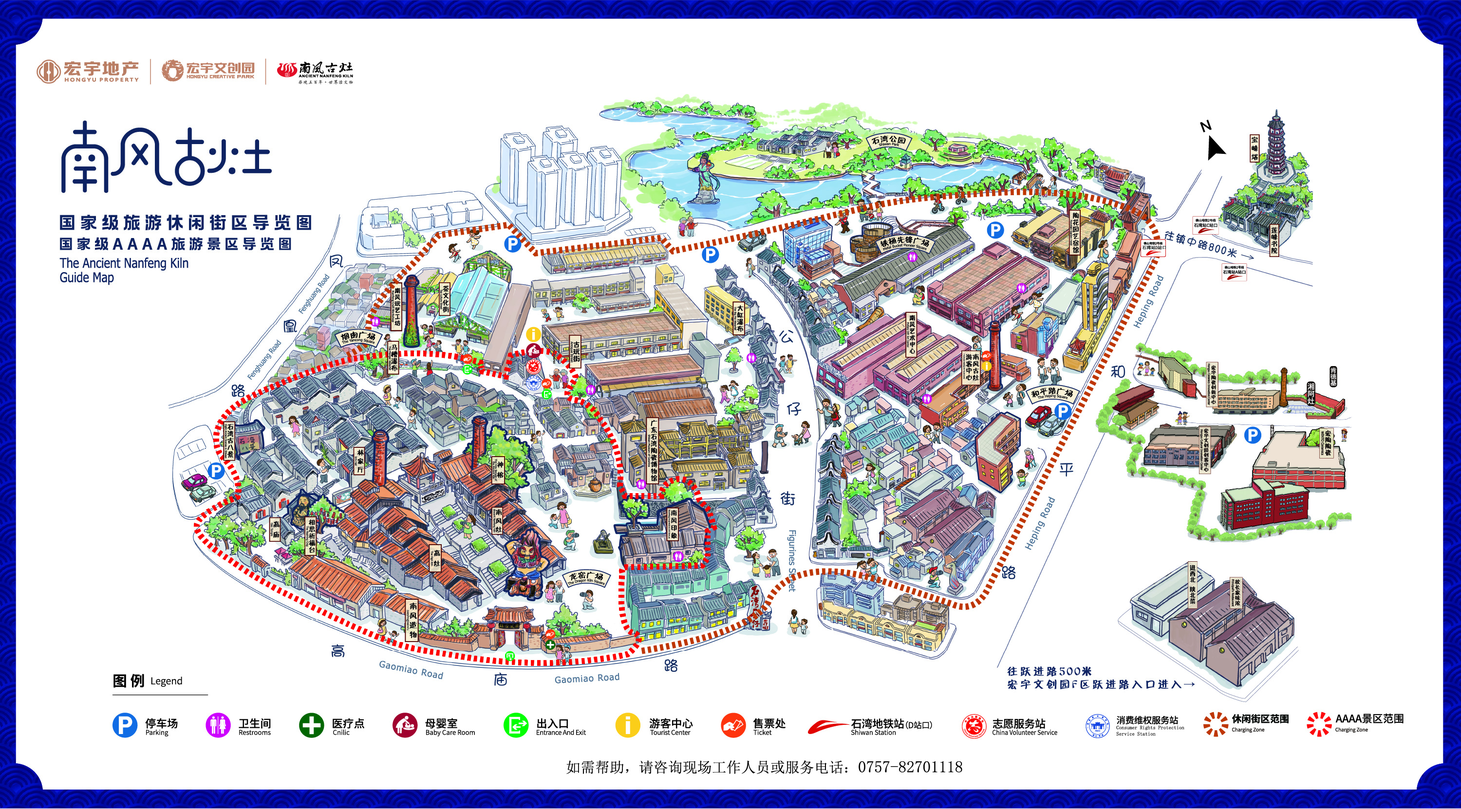
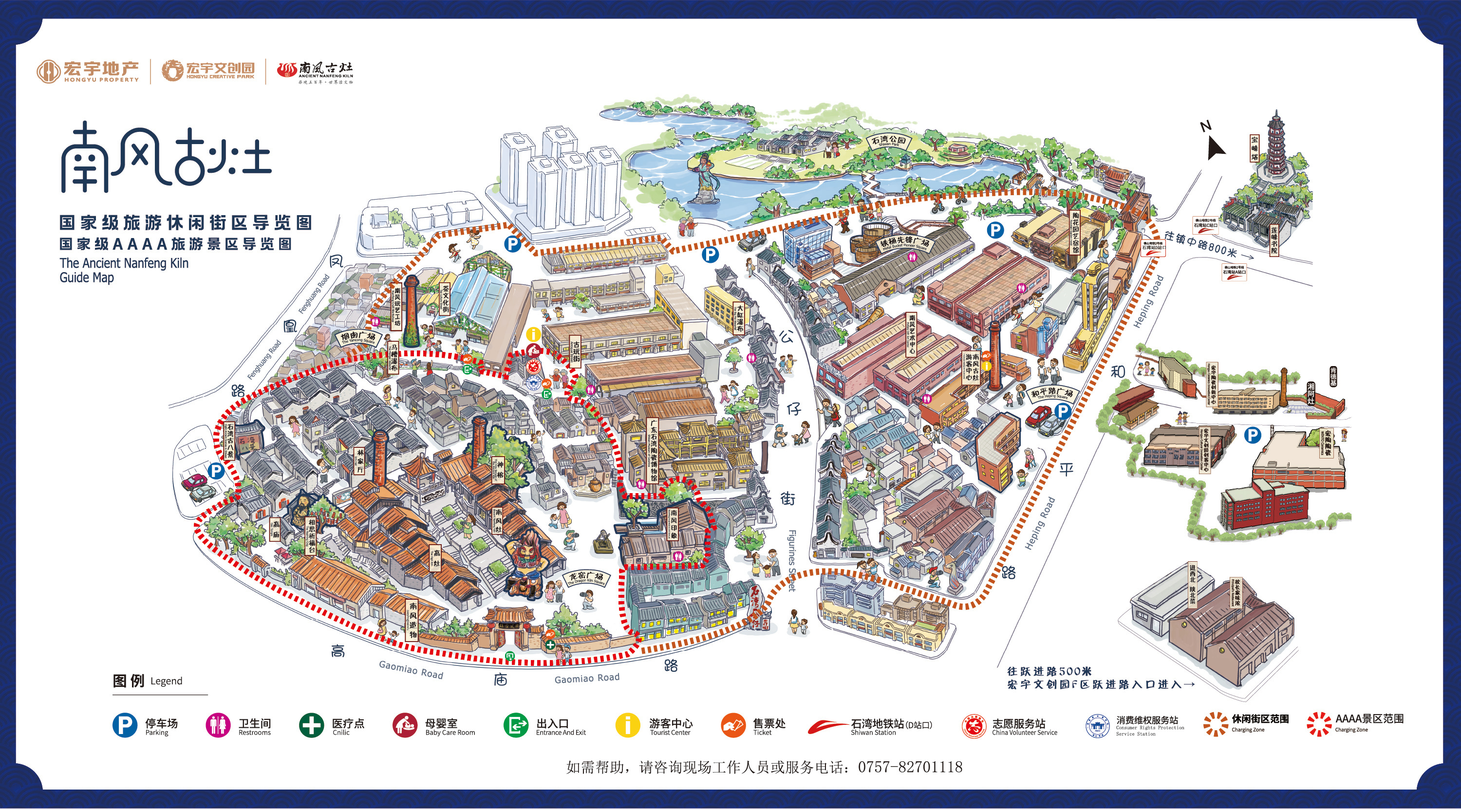
Improve map sharpness in Safari

diff --git a/Nanfeng-Kiln/script.js b/Nanfeng-Kiln/script.js
@@ -61,12 +61,10 @@ const copy = {
     mapLink: "在高德地图查找 ↗", officialSiteLink: "查看政府文化介绍 ↗",
     visitCaveat: "本页为独立文化导览，不代表景区官方；门票、预约、活动和交通信息请以运营方最新通知为准。",
     siteMapTitle: "一张图，走进古灶与石湾",
-    siteMapToolbar: "南风古灶景区导览图 · 原图 3000 × 1662",
     siteMapControlsAria: "地图缩放控件", mapZoomOutAria: "缩小地图", mapZoomInAria: "放大地图",
     mapZoomRangeAria: "地图缩放比例", mapZoomFit: "适配全图", siteMapViewportAria: "可交互的南风古灶景区地图",
     siteMapOpenAria: "点击打开南风古灶景区地图大图", siteMapOpen: "点击查看大图", siteMapDialogTitle: "南风古灶景区地图",
     siteMapCloseAria: "关闭地图查看器", siteMapHelp: "点击地图打开大图查看器；放大、缩小或拖动只在查看器中进行。",
-    siteMapDialogHelp: "拖动地图平移；使用滚轮、双指或缩放条放大细节。按方向键平移，Home 键复位，Esc 关闭。",
     profileScale: "非比例示意 · NOT TO SCALE",
     craftTitle: "泥与人间",
     craftLabel: "石湾陶塑 · 手艺与生活",
@@ -199,13 +197,11 @@ const copy = {
     mapLink: "Find it on Amap ↗", officialSiteLink: "Read the government cultural guide ↗",
     visitCaveat: "This independent guide is not the attraction’s official site. Check the operator’s latest notices for tickets, booking, events and transport.",
     siteMapTitle: "Explore the kiln town, one map at a time",
-    siteMapToolbar: "Nanfeng Kiln visitor map · Original 3000 × 1662",
     siteMapControlsAria: "Map zoom controls", mapZoomOutAria: "Zoom out", mapZoomInAria: "Zoom in",
     mapZoomRangeAria: "Map zoom level", mapZoomFit: "Fit map",
     siteMapViewportAria: "Interactive map of Nanfeng Kiln", siteMapOpenAria: "Open the full-size Nanfeng Kiln visitor map",
     siteMapOpen: "Open full-size map", siteMapDialogTitle: "Nanfeng Kiln visitor map", siteMapCloseAria: "Close map viewer",
     siteMapHelp: "Select the map to open the full-size viewer. Pan and zoom are available only in the viewer.",
-    siteMapDialogHelp: "Drag to pan; use the wheel, a two-finger pinch or the slider to zoom. Use arrow keys to pan, Home to reset, or Esc to close.",
     profileScale: "Diagram · NOT TO SCALE",
     craftTitle: "Clay and the<br>human world.",
     craftLabel: "SHIWAN CERAMIC SCULPTURE · CRAFT & LIFE",
@@ -476,19 +472,32 @@ searchDialog?.addEventListener("close", function () { document.getElementById("s
     return Math.max(minimum, Math.min(maximum, valueToLimit));
   }
 
-  function clampPan() {
-    const ratio = (image.naturalWidth || 3000) / (image.naturalHeight || 1662);
-    const baseWidth = Math.min(viewport.clientWidth, viewport.clientHeight * ratio);
-    const baseHeight = baseWidth / ratio;
-    const maxX = Math.max(0, (baseWidth * (state.scale - 1)) / 2);
-    const maxY = Math.max(0, (baseHeight * (state.scale - 1)) / 2);
+  // Size the layer at native device pixels before fitting it, so Safari does not magnify a viewport-sized raster.
+  function getFitGeometry() {
+    const pixelRatio = Math.max(0.5, window.devicePixelRatio || 1);
+    const sourceWidth = image.naturalWidth || Number(image.getAttribute("width")) || 3000;
+    const sourceHeight = image.naturalHeight || Number(image.getAttribute("height")) || 1662;
+    const imageWidth = sourceWidth / pixelRatio;
+    const imageHeight = sourceHeight / pixelRatio;
+    if (image.style.width !== imageWidth + "px") image.style.width = imageWidth + "px";
+    if (image.style.height !== imageHeight + "px") image.style.height = imageHeight + "px";
+    const ratio = imageWidth / imageHeight;
+    const width = Math.min(viewport.clientWidth, viewport.clientHeight * ratio);
+    const height = width / ratio;
+    return { imageWidth, imageHeight, width, height, scale: width / imageWidth };
+  }
+
+  function clampPan(geometry) {
+    const maxX = Math.max(0, (geometry.width * (state.scale - 1)) / 2);
+    const maxY = Math.max(0, (geometry.height * (state.scale - 1)) / 2);
     state.x = limit(state.x, -maxX, maxX);
     state.y = limit(state.y, -maxY, maxY);
   }
 
   function renderMap() {
-    clampPan();
-    image.style.transform = "translate(-50%, -50%) translate(" + state.x + "px, " + state.y + "px) scale(" + state.scale + ")";
+    const geometry = getFitGeometry();
+    clampPan(geometry);
+    image.style.transform = "translate(-50%, -50%) translate(" + state.x + "px, " + state.y + "px) scale(" + (geometry.scale * state.scale) + ")";
     range.value = String(Math.round(state.scale * 100));
     value.value = Math.round(state.scale * 100) + "%";
     value.textContent = value.value;
@@ -591,6 +600,7 @@ searchDialog?.addEventListener("close", function () { document.getElementById("s
   }
 
   viewport.addEventListener("pointerdown", onPointerDown);
+  image.addEventListener("load", renderMap);
   viewport.addEventListener("pointermove", onPointerMove);
   viewport.addEventListener("pointerup", onPointerEnd);
   viewport.addEventListener("pointercancel", onPointerEnd);
@@ -620,10 +630,9 @@ searchDialog?.addEventListener("close", function () { document.getElementById("s
   zoomOut?.addEventListener("click", function () { zoomTo(state.scale / 1.25); });
   fit?.addEventListener("click", resetMap);
   openButton.addEventListener("click", function () {
-    resetMap();
     dialog.showModal();
     requestAnimationFrame(function () {
-      renderMap();
+      resetMap();
       viewport.focus({ preventScroll: true });
     });
   });

diff --git a/Nanfeng-Kiln/style.css b/Nanfeng-Kiln/style.css
@@ -734,9 +734,9 @@ html { scroll-padding-top: 0; }
 }
 .site-map-viewport.is-dragging { cursor: grabbing; }
 .site-map-image {
-  position: absolute; top: 50%; left: 50%; width: auto; height: auto; max-width: 100%; max-height: 100%;
+  position: absolute; top: 50%; left: 50%; width: auto; height: auto; max-width: none; max-height: none;
   transform: translate(-50%, -50%) scale(1); transform-origin: center;
-  pointer-events: none; user-select: none; -webkit-user-drag: none; will-change: transform;
+  pointer-events: none; user-select: none; -webkit-user-drag: none;
 }
 .site-map-caption { display: flex; justify-content: space-between; align-items: baseline; gap: 18px; padding: 11px 16px 12px; border-top: 1px solid #d4d0c6; color: #66665e; font: 11px/1.7 var(--serif); }
 #app > #site-map { scroll-margin-top: 84px; }
@@ -747,12 +747,10 @@ html { scroll-padding-top: 0; }
 .site-map-dialog-shell { display: flex; width: 100%; height: 100%; flex-direction: column; box-sizing: border-box; padding: max(10px, env(safe-area-inset-top)) max(18px, env(safe-area-inset-right)) max(10px, env(safe-area-inset-bottom)) max(18px, env(safe-area-inset-left)); }
 .site-map-dialog-toolbar { display: grid; grid-template-columns: minmax(210px,1fr) auto 42px; align-items: center; gap: clamp(14px,3vw,36px); min-height: 72px; }
 .site-map-dialog-heading { min-width: 0; }
-.site-map-toolbar-label { display: block; margin-bottom: 5px; color: #a9a9a0; font: 9px/1.4 var(--sans); letter-spacing: .14em; }
 .site-map-dialog-heading h2 { overflow: hidden; color: #f5f3ec; font: 500 19px/1.35 var(--serif); letter-spacing: .04em; text-overflow: ellipsis; white-space: nowrap; }
 .site-map-close { display: grid; width: 42px; height: 42px; place-items: center; border: 1px solid #747873; background: transparent; color: #f5f3ec; cursor: pointer; }
 .site-map-close span { margin-top: -3px; font: 30px/1 Arial, sans-serif; font-weight: 200; }
 .site-map-close:hover { border-color: #e45a43; color: #f0a391; }
-.site-map-dialog-help { flex: 0 0 auto; margin: 0; padding: 12px 6px 2px; color: #b5b5ac; font: 11px/1.6 var(--serif); text-align: center; }
 .site-map-dialog :focus-visible { outline: 2px solid #e45a43; outline-offset: 3px; }
 
 @media (min-width: 1301px) {
@@ -772,12 +770,10 @@ html { scroll-padding-top: 0; }
   .site-map-dialog-toolbar { grid-template-columns: minmax(0,1fr) 40px; grid-template-rows: auto auto; gap: 12px 10px; min-height: 0; padding: 5px 0 13px; }
   .site-map-dialog-heading { grid-column: 1; grid-row: 1; }
   .site-map-dialog-heading h2 { font-size: 16px; }
-  .site-map-toolbar-label { font-size: 8px; }
   .site-map-close { grid-column: 2; grid-row: 1; width: 40px; height: 40px; }
   .site-map-dialog .site-map-controls { grid-column: 1 / -1; grid-row: 2; display: grid; grid-template-columns: 34px minmax(52px,1fr) 39px 34px auto; gap: 6px; }
   .site-map-dialog .map-zoom-button, .site-map-dialog .map-fit-button { height: 34px; padding-inline: 6px; }
   .site-map-dialog .map-zoom-range { width: 100%; min-width: 0; }
   .site-map-dialog .map-zoom-value { min-width: 0; font-size: 10px; }
   .site-map-dialog .map-fit-button { font-size: 10px; }
-  .site-map-dialog-help { padding: 10px 4px max(2px, env(safe-area-inset-bottom)); font-size: 10px; }
 }

diff --git a/Nanfeng-Kiln/index.html b/Nanfeng-Kiln/index.html
@@ -286,7 +286,6 @@
     <div class="site-map-dialog-shell">
       <div class="site-map-dialog-toolbar">
         <div class="site-map-dialog-heading">
-          <span class="site-map-toolbar-label" data-i18n="siteMapToolbar">南风古灶景区导览图 · 原图 3000 × 1662</span>
           <h2 id="siteMapDialogTitle" data-i18n="siteMapDialogTitle">南风古灶景区地图</h2>
         </div>
         <div class="site-map-controls" role="group" aria-label="地图缩放控件" data-i18n-aria="siteMapControlsAria">
@@ -298,10 +297,9 @@
         </div>
         <button class="site-map-close" id="siteMapClose" type="button" aria-label="关闭地图查看器" data-i18n-aria="siteMapCloseAria"><span aria-hidden="true">×</span></button>
       </div>
-      <div class="site-map-viewport" id="siteMapViewport" tabindex="0" role="region" aria-label="可交互的南风古灶景区地图" data-i18n-aria="siteMapViewportAria" aria-describedby="siteMapDialogHelp">
+      <div class="site-map-viewport" id="siteMapViewport" tabindex="0" role="region" aria-label="可交互的南风古灶景区地图" data-i18n-aria="siteMapViewportAria">
         <img class="site-map-image" id="siteMapImage" src="./assets/site-guide-map.jpg" alt="南风古灶与周边街区的手绘景区导览图，标有景点、停车场、游客中心、出入口和图例" data-alt-zh="南风古灶与周边街区的手绘景区导览图，标有景点、停车场、游客中心、出入口和图例" data-alt-en="Illustrated guide map of Nanfeng Kiln and the surrounding district, with places, parking, visitor centre, entrances and a legend" width="3000" height="1662" draggable="false" />
       </div>
-      <p class="site-map-dialog-help" id="siteMapDialogHelp" data-i18n="siteMapDialogHelp">拖动地图平移；使用滚轮、双指或缩放条放大细节。按方向键平移，Home 键复位，Esc 关闭。</p>
     </div>
   </dialog>
   <dialog class="search-dialog" id="siteSearchDialog" aria-labelledby="searchHeading">
